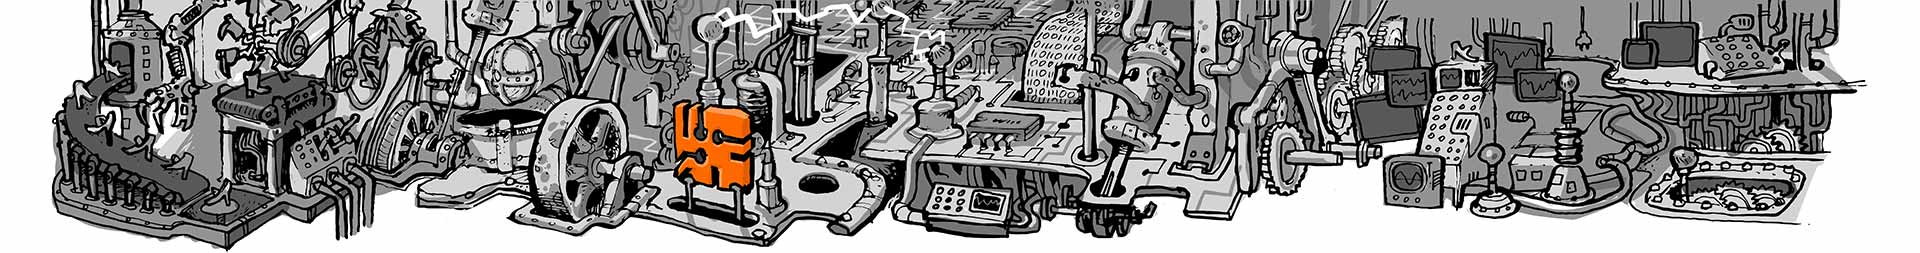
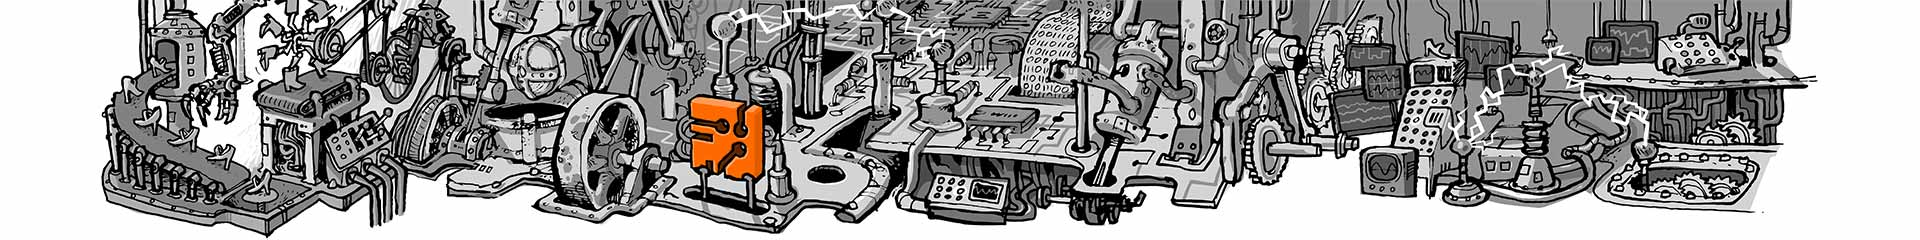
add new illu from kolja

diff --git a/themes/techblog/assets/css/less/elements/header.less b/themes/techblog/assets/css/less/elements/header.less
@@ -52,7 +52,6 @@
             }
         }
 
-
         @media screen and (max-width: (@screenTabletPortrait - 1px)) {
 
             .dMarginBottom;
@@ -63,88 +62,5 @@
 
             margin-bottom: @distanceDouble * 2;
 
-        }
-
-        .banner {
-            .overHidden;
-            .transition(height, .15s);
-            background-color: @white;
-            background-position: center bottom;
-            background-repeat: no-repeat;
-            background-size: cover;
-
-            @media screen and (max-width: (@screenTabletPortrait - 1px)) {
-
-                background-image: url('../img/welcome_mobile.jpg');
-
-                &:not(.welcome) {
-                    height: @distanceDefault * 2.5;
-                }
-
-            }
-
-            @media screen and (max-width: (@screenTabletPortrait - 1px))
-                          and (orientation: portrait) {
-
-                &.welcome {
-                    .dimension(@distanceDefault * 8, 100%);
-                }
-
-            }
-
-
-            @media screen and (max-width: (@screenTabletPortrait - 1px))
-            and (orientation: landscape) {
-
-                &.welcome {
-                    .dimension(@distanceDefault * 7, 100%);
-                }
-
-            }
-
-            @media screen and (min-width: @screenTabletPortrait)
-                          and (max-width: (@screenDesktop - 1px)) {
-
-                background-image:url('../img/welcome_tablet.jpg');
-
-                &:not(.welcome) {
-                    height: @distanceDefault * 5;
-                }
-
-                &.welcome {
-                    .dimension(@distanceDefault * 13, 100%);
-                }
-
-            }
-
-            @media screen and (min-width: @screenDesktop) {
-
-                background-image: url('../img/welcome.jpg');
-
-            }
-
-            @media screen and (min-width: @screenDesktop)
-                          and (max-width: (@screenDesktopLarge - 1px)) {
-
-                &:not(.welcome) {
-                    height: @distanceDefault * 7.5;
-                }
-
-                &.welcome {
-                    .dimension(@distanceDefault * 20, 100%);
-                }
-            }
-
-            @media screen and (min-width: @screenDesktopLarge) {
-
-                &:not(.welcome) {
-                    height: @distanceDefault * 10;
-                }
-
-                &.welcome {
-                    .dimension(@distanceDefault * 25.3, 100%);
-                    background-size: cover;
-                }
-            }
         }
     }

diff --git a/themes/techblog/assets/css/less/elements/header_banner.less b/themes/techblog/assets/css/less/elements/header_banner.less
@@ -1,0 +1,84 @@
+
+    // HEADER (Bunner Illu)---------------------------------------------------------------------------------------------
+    .banner {
+        .overHidden;
+        .transition(height, .15s);
+        background-color: @white;
+        background-position: center bottom;
+        background-repeat: no-repeat;
+        background-size: cover;
+
+        @media screen and (max-width: (@screenTabletPortrait - 1px)) {
+
+            background-image: url('../img/welcome_mobile.jpg');
+
+            &:not(.welcome) {
+                height: @distanceDefault * 2.5;
+            }
+
+        }
+
+        @media screen and (max-width: (@screenTabletPortrait - 1px))
+        and (orientation: portrait) {
+
+            &.welcome {
+                .dimension(@distanceDefault * 8, 100%);
+            }
+
+        }
+
+
+        @media screen and (max-width: (@screenTabletPortrait - 1px))
+        and (orientation: landscape) {
+
+            &.welcome {
+                .dimension(@distanceDefault * 7, 100%);
+            }
+
+        }
+
+        @media screen and (min-width: @screenTabletPortrait)
+        and (max-width: (@screenDesktop - 1px)) {
+
+            background-image:url('../img/welcome_tablet.jpg');
+
+            &:not(.welcome) {
+                height: @distanceDefault * 5;
+            }
+
+            &.welcome {
+                .dimension(@distanceDefault * 16, 100%);
+            }
+
+        }
+
+        @media screen and (min-width: @screenDesktop) {
+
+            background-image: url('../img/welcome.jpg');
+
+        }
+
+        @media screen and (min-width: @screenDesktop)
+        and (max-width: (@screenDesktopLarge - 1px)) {
+
+            &:not(.welcome) {
+                height: @distanceDefault * 7.5;
+            }
+
+            &.welcome {
+                .dimension(@distanceDefault * 20, 100%);
+            }
+        }
+
+        @media screen and (min-width: @screenDesktopLarge) {
+
+            &:not(.welcome) {
+                height: @distanceDefault * 10;
+            }
+
+            &.welcome {
+                .dimension(@distanceDefault * 24, 100%);
+                background-size: cover;
+            }
+        }
+    }

diff --git a/themes/techblog/assets/css/theme.css b/themes/techblog/assets/css/theme.css
@@ -732,7 +732,7 @@ header .zalando:before {
     margin-bottom: 40px;
   }
 }
-header .banner {
+.banner {
   overflow: hidden;
   -ms-transition: height 0.15s ease;
   -moz-transition: height 0.15s ease;
@@ -744,57 +744,57 @@ header .banner {
   background-size: cover;
 }
 @media screen and (max-width: 599px) {
-  header .banner {
+  .banner {
     background-image: url('../img/welcome_mobile.jpg');
   }
-  header .banner:not(.welcome) {
+  .banner:not(.welcome) {
     height: 25px;
   }
 }
 @media screen and (max-width: 599px) and (orientation: portrait) {
-  header .banner.welcome {
+  .banner.welcome {
     height: 80px;
     width: 100%;
   }
 }
 @media screen and (max-width: 599px) and (orientation: landscape) {
-  header .banner.welcome {
+  .banner.welcome {
     height: 70px;
     width: 100%;
   }
 }
 @media screen and (min-width: 600px) and (max-width: 1023px) {
-  header .banner {
+  .banner {
     background-image: url('../img/welcome_tablet.jpg');
   }
-  header .banner:not(.welcome) {
+  .banner:not(.welcome) {
     height: 50px;
   }
-  header .banner.welcome {
-    height: 130px;
+  .banner.welcome {
+    height: 160px;
     width: 100%;
   }
 }
 @media screen and (min-width: 1024px) {
-  header .banner {
+  .banner {
     background-image: url('../img/welcome.jpg');
   }
 }
 @media screen and (min-width: 1024px) and (max-width: 1439px) {
-  header .banner:not(.welcome) {
+  .banner:not(.welcome) {
     height: 75px;
   }
-  header .banner.welcome {
+  .banner.welcome {
     height: 200px;
     width: 100%;
   }
 }
 @media screen and (min-width: 1440px) {
-  header .banner:not(.welcome) {
+  .banner:not(.welcome) {
     height: 100px;
   }
-  header .banner.welcome {
-    height: 253px;
+  .banner.welcome {
+    height: 240px;
     width: 100%;
     background-size: cover;
   }

diff --git a/themes/techblog/assets/css/less/import.less b/themes/techblog/assets/css/less/import.less
@@ -16,6 +16,7 @@
   // elements
   @import "elements/author";
   @import "elements/header";
+  @import "elements/header_banner";
   @import "elements/nav";
   @import "elements/elements";
   @import "elements/pages";
